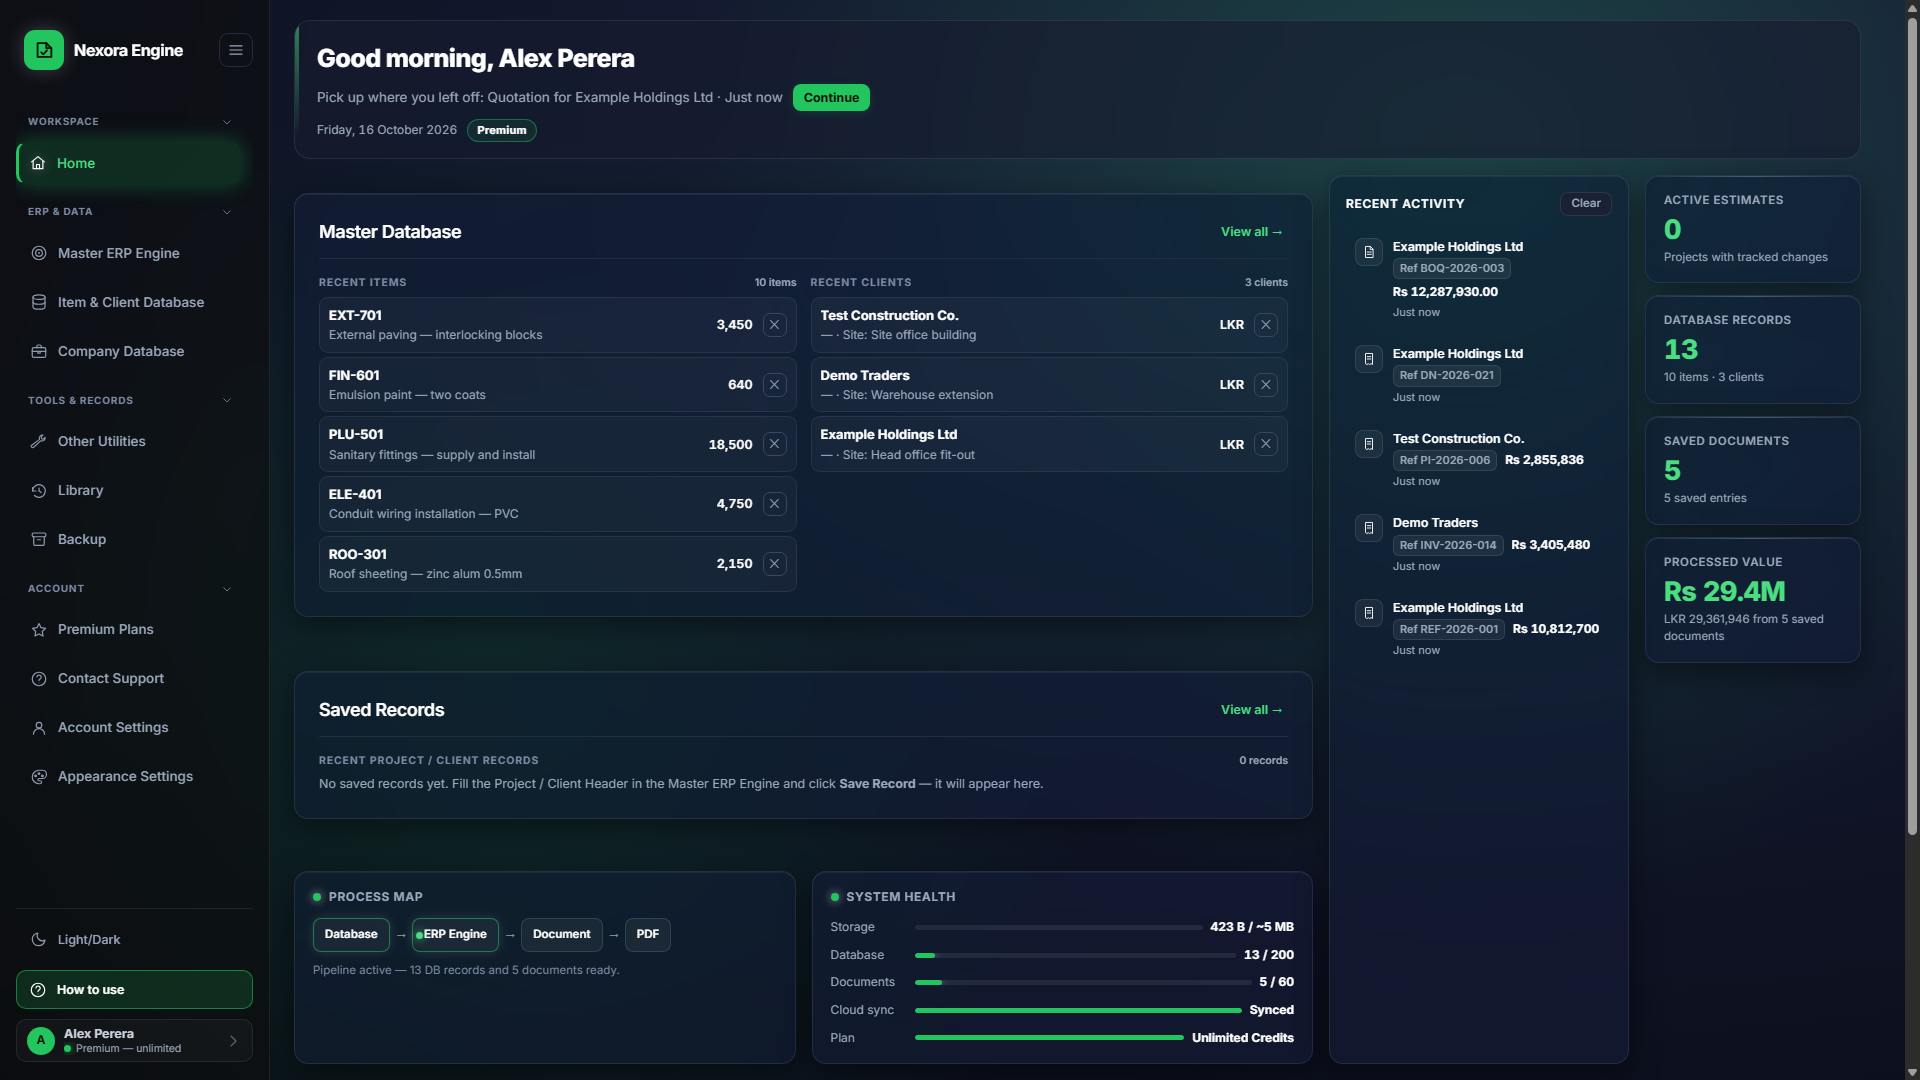
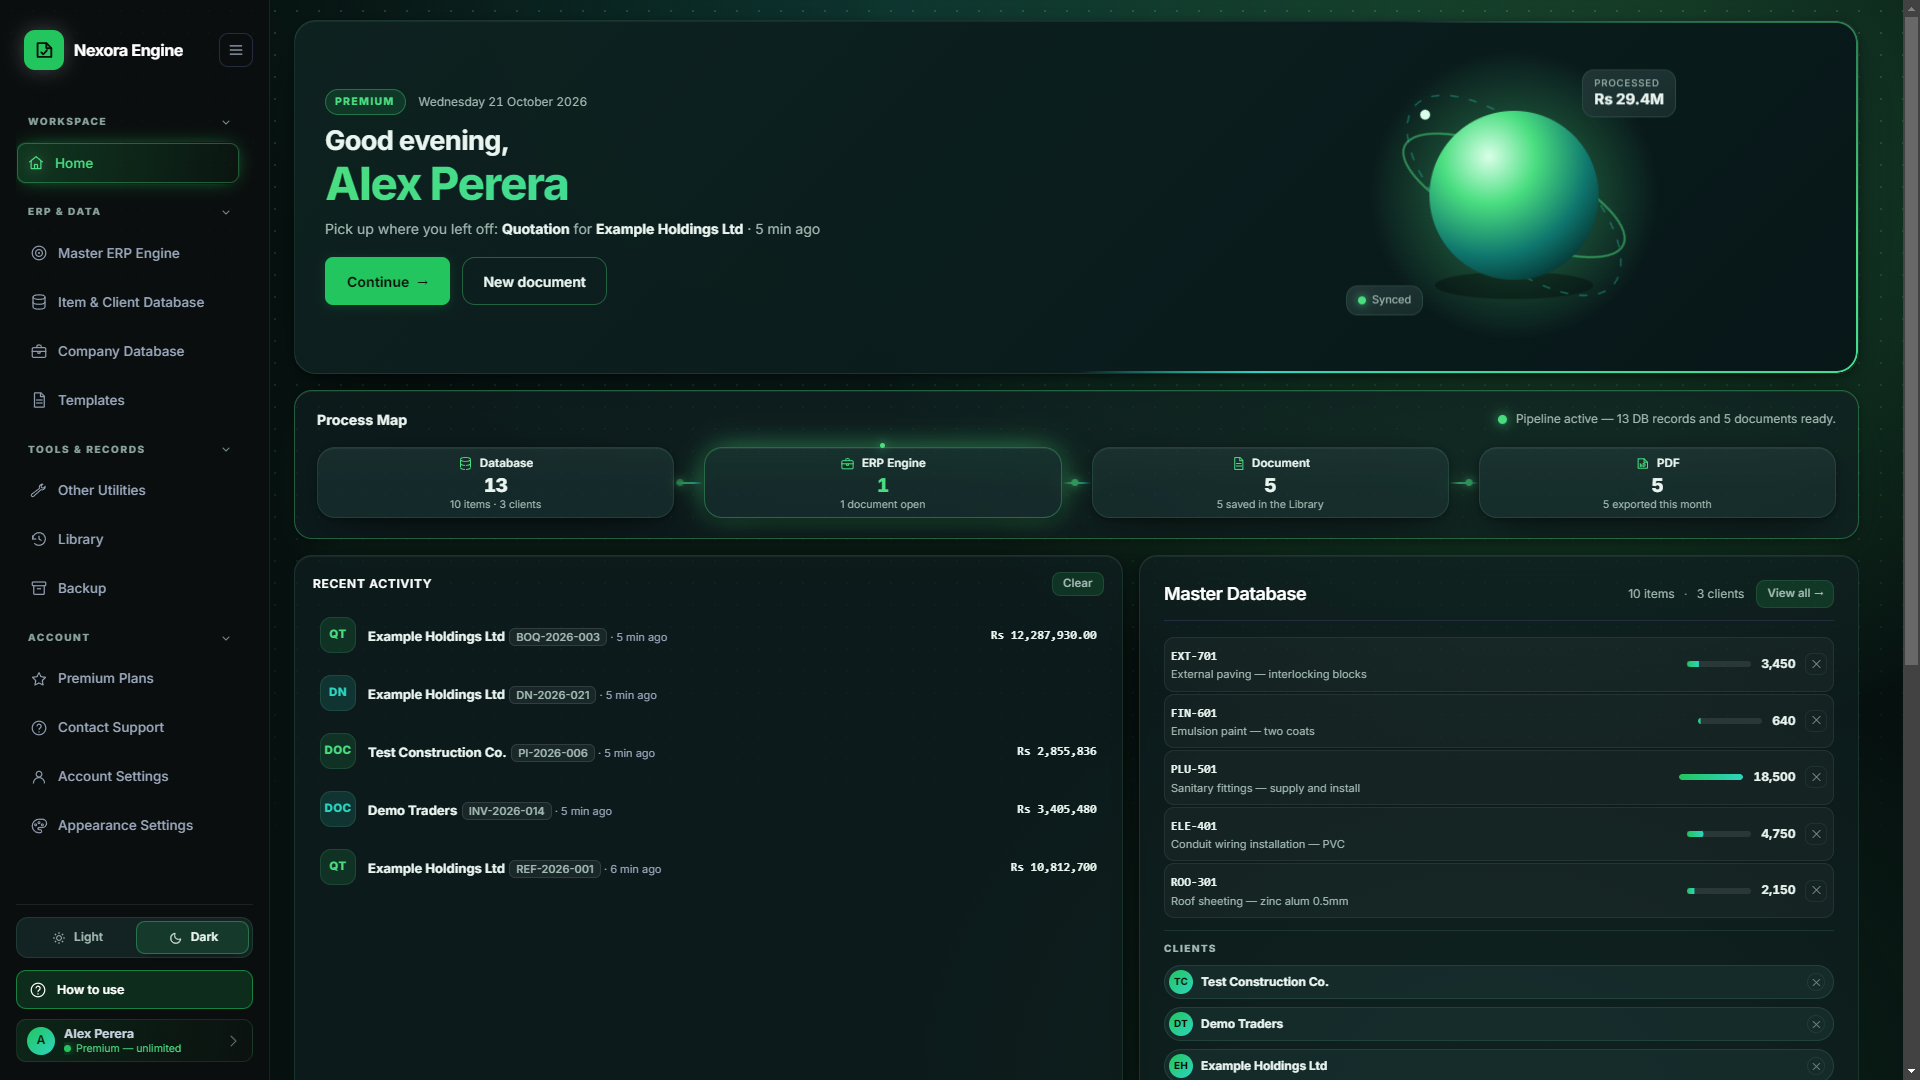
Refresh the showcase for v0.1.6
Retaken from the packaged Windows app, with the restored premium Home in
both themes, and the README now points at the website for downloads.

Generated with Codebuff 🤖

diff --git a/README.md b/README.md
@@ -1,10 +1,12 @@
 # Nexora Engine
 
-> Business documents, estimating tools and calculators for contractors, in one Windows app that works online or offline.
+> Business documents, estimating tools and calculators for contractors — one Windows app that works online or offline.
 
 ![Nexora Engine Home](screenshots/home-dark-1920.png)
 
-**[Download for Windows](https://github.com/RealRren/nexora-engine-releases/releases/latest)**
+**[Download for Windows](https://nexoraengine.xyz)**
+
+**v0.1.6** · Windows 10 / 11 (64-bit) · 78.5 MB installer
 
 > This is a **showcase** repository. The source code is private. This page shows what the app does and how it was built.
 
@@ -25,21 +27,34 @@
 - Copy / paste, multi-select, right-click menu, undo / redo
 - Figures always stay tied to the form, so edits can't break the totals
 
+**Letterhead and company seal**
+- Your company details on every sheet and every printed page
+- Upload a seal image once — it prints with the signature block
+
+**Templates (Premium)**
+- Save a finished layout as a template and start the next document from it
+- Templates sync with the account, so a layout made on one PC is on the next
+
 **Estimating tools and calculators**
 - BOQ, Qty & Rate, Variation Order, Import Tax, Scope Guard report
 - Calculator reports ready to print
 
-**Account and cloud**
+**Library and cloud**
+- Every document is saved, reloadable and re-downloadable from any device
+- Synced to your account, and still usable offline
+- A free account gets one free run of every tool; Premium lifts the limits on all of them at once ($12.99 / month or $124.99 / year, requested in the app)
+
+**Account**
 - Sign up with an emailed code, password reset by code
-- Library of saved documents, synced to your account
 - Free and Premium plans
 - Support tickets inside the app
 
 **App**
 - Windows desktop app, works offline, syncs when online
-- Automatic update check for new releases
+- Checks for a new release on every start and installs it
 - Dark and light themes
 - Sinhala and Tamil text supported
+- Spell check in every text field
 
 ---
 
@@ -47,12 +62,12 @@
 
 | | |
 |---|---|
-| ![Home](screenshots/home-light-1280.png) | ![Quotation](screenshots/quotation.png) |
-| Home dashboard | Quotation |
-| ![Tax Invoice](screenshots/tax-invoice.png) | ![Excel export](screenshots/excel-export.png) |
-| Tax Invoice | Excel export |
-| ![Editor](screenshots/editor.png) | ![Library](screenshots/library.png) |
-| Document editor | Saved documents library |
+| ![Home, dark](screenshots/home-dark-1920.png) | ![Home, light](screenshots/home-light-1280.png) |
+| Home dashboard, dark | Home dashboard, light |
+| ![Quotation](screenshots/quotation.png) | ![Tax Invoice](screenshots/tax-invoice.png) |
+| Quotation, ready to print | Tax Invoice, ready to print |
+| ![Library](screenshots/library.png) | ![Editor](screenshots/editor.png) |
+| Saved documents library | Document editor |
 
 ### Editor in action
 
@@ -67,10 +82,10 @@
 | Area | Technology |
 |---|---|
 | Front end | HTML, CSS, JavaScript |
-| Desktop | Windows desktop app, works offline |
+| Desktop | Electron shell, Windows installer, automatic updates |
 | Auth and database | Supabase (Postgres, Row Level Security) |
-| Releases | GitHub Releases + forced update check |
-| Exports | PDF, Excel (.xlsx) |
+| Exports | Print-to-PDF, Excel (.xlsx) |
+| Releases | GitHub Releases + electron-updater |
 
 ## How it was built
 
@@ -82,7 +97,7 @@
 
 ## Status
 
-Current release: **v0.1.1** · Next: **v0.1.2** (editor, templates, password reset)
+Current release: **v0.1.6** (20 October 2026) · [All versions](https://github.com/RealRren/nexora-engine-releases/releases)
 
 ## Contact
 
